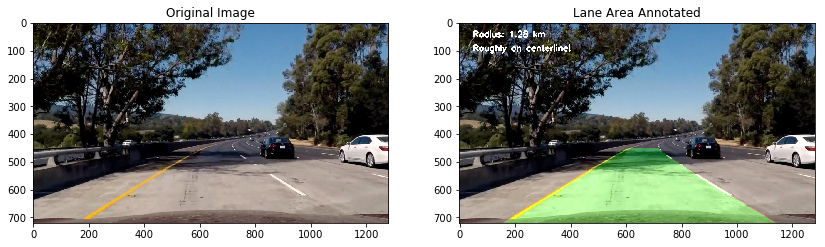
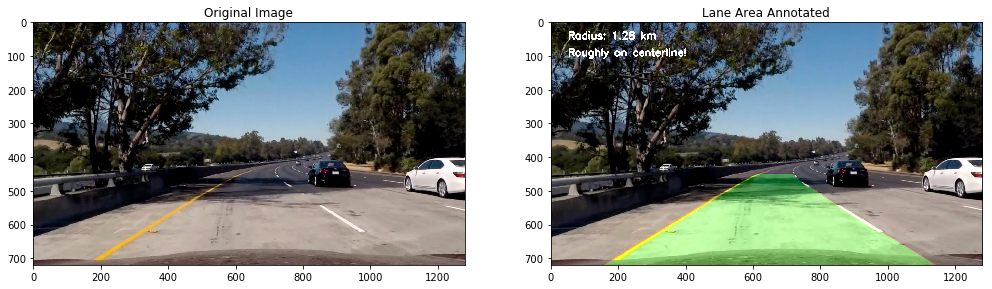
writeup editing

diff --git a/alf_utils.py b/alf_utils.py
@@ -255,7 +255,7 @@ def demoCompose(img):
     unwarped_lanes      = war.unwarpPerspective(lane_area)
     final_img           = hud.compose(img_undistorted, unwarped_lanes, rad, off)
     
-    plt.figure(figsize=(14,6))
+    plt.figure(figsize=(17,6))
     ax1 = plt.subplot(121)
     ax1.imshow(img_undistorted)
     ax1.set_title('Original Image')
